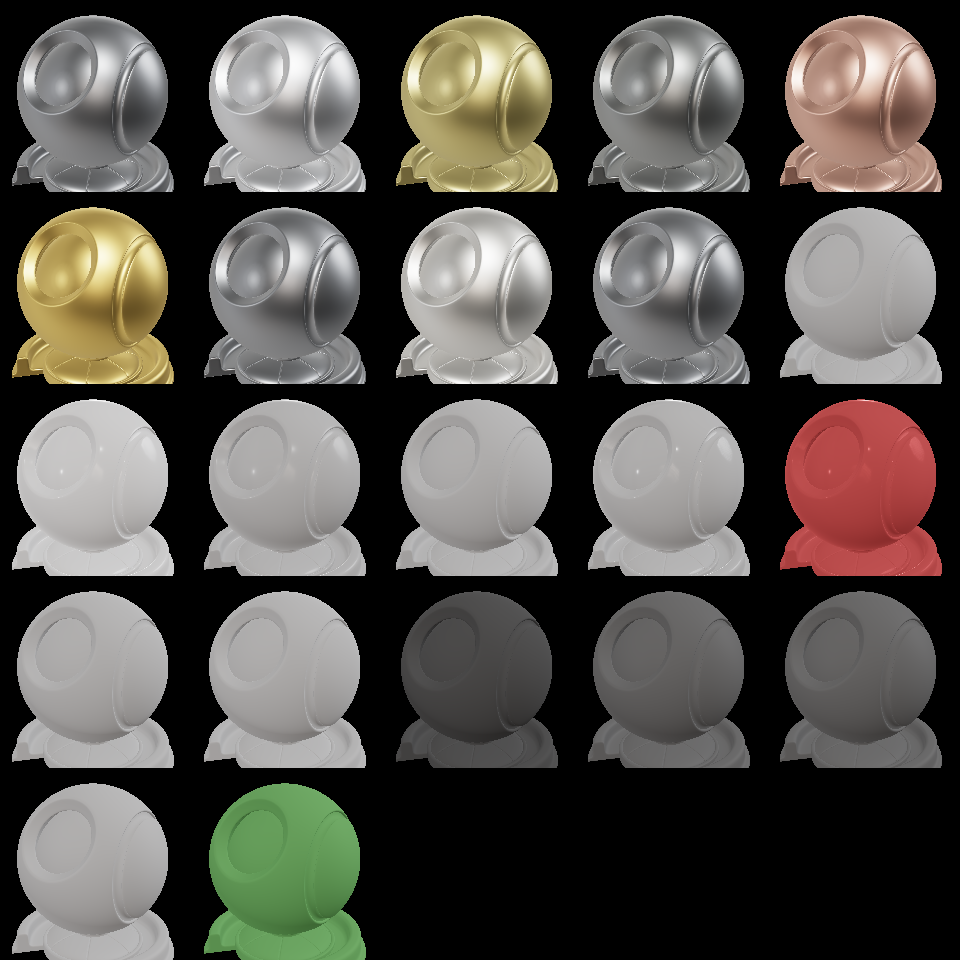
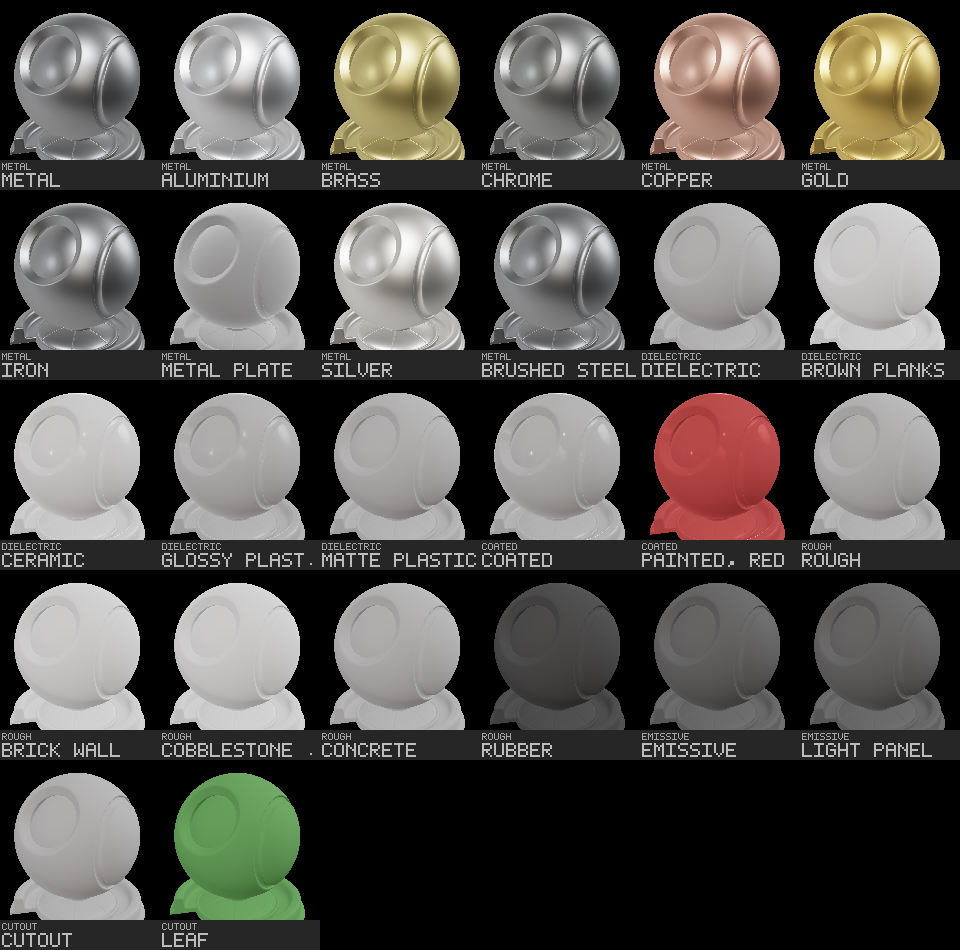
Contact sheet: a label strip under every cell (family small, title larger) from a 5x7 bitmap font of the repository's own; six columns at 160 px to keep the gallery's rule; the gallery caption; the quad-sphere idea boarded (Icebox) with its verdict

diff --git a/tools/wgpu/bitmap_font.py b/tools/wgpu/bitmap_font.py
@@ -1,0 +1,128 @@
+"""
+HogShade: a 5x7 bitmap font for labels on verification pictures, with no font rasteriser in the repository.
+Package: tools/wgpu/bitmap_font
+
+``draw_text(image, text, x, y)`` paints ``text`` into a float RGB image at an integer scale; letters are upper
+case (a lower-case letter maps to its capital), digits and a few marks (space, ``_ - . , ' / : ( )``) are drawn, any
+other character is a hollow box so a missing glyph is seen, never silently dropped. ``text_width`` says how
+many pixels a string takes, so a caller can truncate. Twenty-six letters, ten digits and the marks are enough
+for a family and a title under a contact-sheet cell (the owner, 2026-10-04: "they need context").
+"""
+
+from __future__ import annotations
+
+import logging as _logging
+
+import numpy as np
+from numpy.typing import NDArray
+
+_MODULE_NAME = "tools.wgpu.bitmap_font"
+__version__ = "0.1.0"
+__updated__ = "2026-10-04"
+_LOGGER = _logging.getLogger(_MODULE_NAME)
+
+GLYPH_W, GLYPH_H, ADVANCE = 5, 7, 6
+
+#: Each glyph is seven rows of five cells; ``#`` is ink.
+_GLYPHS: dict[str, tuple[str, ...]] = {
+    "A": (".###.", "#...#", "#...#", "#####", "#...#", "#...#", "#...#"),
+    "B": ("####.", "#...#", "#...#", "####.", "#...#", "#...#", "####."),
+    "C": (".###.", "#...#", "#....", "#....", "#....", "#...#", ".###."),
+    "D": ("####.", "#...#", "#...#", "#...#", "#...#", "#...#", "####."),
+    "E": ("#####", "#....", "#....", "####.", "#....", "#....", "#####"),
+    "F": ("#####", "#....", "#....", "####.", "#....", "#....", "#...."),
+    "G": (".###.", "#...#", "#....", "#.###", "#...#", "#...#", ".###."),
+    "H": ("#...#", "#...#", "#...#", "#####", "#...#", "#...#", "#...#"),
+    "I": ("#####", "..#..", "..#..", "..#..", "..#..", "..#..", "#####"),
+    "J": ("..###", "...#.", "...#.", "...#.", "...#.", "#..#.", ".##.."),
+    "K": ("#...#", "#..#.", "#.#..", "##...", "#.#..", "#..#.", "#...#"),
+    "L": ("#....", "#....", "#....", "#....", "#....", "#....", "#####"),
+    "M": ("#...#", "##.##", "#.#.#", "#.#.#", "#...#", "#...#", "#...#"),
+    "N": ("#...#", "##..#", "#.#.#", "#..##", "#...#", "#...#", "#...#"),
+    "O": (".###.", "#...#", "#...#", "#...#", "#...#", "#...#", ".###."),
+    "P": ("####.", "#...#", "#...#", "####.", "#....", "#....", "#...."),
+    "Q": (".###.", "#...#", "#...#", "#...#", "#.#.#", "#..#.", ".##.#"),
+    "R": ("####.", "#...#", "#...#", "####.", "#.#..", "#..#.", "#...#"),
+    "S": (".####", "#....", "#....", ".###.", "....#", "....#", "####."),
+    "T": ("#####", "..#..", "..#..", "..#..", "..#..", "..#..", "..#.."),
+    "U": ("#...#", "#...#", "#...#", "#...#", "#...#", "#...#", ".###."),
+    "V": ("#...#", "#...#", "#...#", "#...#", "#...#", ".#.#.", "..#.."),
+    "W": ("#...#", "#...#", "#...#", "#.#.#", "#.#.#", "##.##", "#...#"),
+    "X": ("#...#", "#...#", ".#.#.", "..#..", ".#.#.", "#...#", "#...#"),
+    "Y": ("#...#", "#...#", ".#.#.", "..#..", "..#..", "..#..", "..#.."),
+    "Z": ("#####", "....#", "...#.", "..#..", ".#...", "#....", "#####"),
+    "0": (".###.", "#...#", "#..##", "#.#.#", "##..#", "#...#", ".###."),
+    "1": ("..#..", ".##..", "..#..", "..#..", "..#..", "..#..", ".###."),
+    "2": (".###.", "#...#", "....#", "...#.", "..#..", ".#...", "#####"),
+    "3": ("####.", "....#", "....#", ".###.", "....#", "....#", "####."),
+    "4": ("...#.", "..##.", ".#.#.", "#..#.", "#####", "...#.", "...#."),
+    "5": ("#####", "#....", "####.", "....#", "....#", "#...#", ".###."),
+    "6": (".###.", "#....", "#....", "####.", "#...#", "#...#", ".###."),
+    "7": ("#####", "....#", "...#.", "..#..", ".#...", ".#...", ".#..."),
+    "8": (".###.", "#...#", "#...#", ".###.", "#...#", "#...#", ".###."),
+    "9": (".###.", "#...#", "#...#", ".####", "....#", "....#", ".###."),
+    " ": (".....", ".....", ".....", ".....", ".....", ".....", "....."),
+    "_": (".....", ".....", ".....", ".....", ".....", ".....", "#####"),
+    "-": (".....", ".....", ".....", "#####", ".....", ".....", "....."),
+    ".": (".....", ".....", ".....", ".....", ".....", "..#..", "....."),
+    "/": ("....#", "....#", "...#.", "..#..", ".#...", "#....", "#...."),
+    ":": (".....", "..#..", ".....", ".....", ".....", "..#..", "....."),
+    ",": (".....", ".....", ".....", ".....", "..##.", "..##.", ".#..."),
+    "'": ("..#..", "..#..", ".#...", ".....", ".....", ".....", "....."),
+    "(": ("...#.", "..#..", ".#...", ".#...", ".#...", "..#..", "...#."),
+    ")": (".#...", "..#..", "...#.", "...#.", "...#.", "..#..", ".#..."),
+}
+_BOX = ("#####", "#...#", "#...#", "#...#", "#...#", "#...#", "#####")
+
+
+def glyph(ch: str) -> NDArray[np.bool_]:
+    """The ``(7, 5)`` ink mask of one character; a capital for a lower-case letter, a box for the unknown."""
+    rows = _GLYPHS.get(ch.upper() if ch.isalpha() else ch, _BOX)
+    return np.array([[c == "#" for c in row] for row in rows], dtype=bool)
+
+
+def text_width(text: str, scale: int = 1) -> int:
+    """The pixels a string takes at ``scale`` (five cells and a one-cell gap per character, no trailing gap)."""
+    if not text:
+        return 0
+    return (len(text) * ADVANCE - 1) * scale
+
+
+def fit(text: str, width: int, scale: int = 1) -> str:
+    """``text`` cut to what fits in ``width`` pixels, the cut marked with a trailing dot when it happened."""
+    if text_width(text, scale) <= width:
+        return text
+    per = ADVANCE * scale
+    n = max(width // per - 1, 0)
+    return text[:n] + "." if n else ""
+
+
+def draw_text(
+    image: NDArray[np.float32],
+    text: str,
+    x: int,
+    y: int,
+    scale: int = 2,
+    colour: tuple[float, float, float] = (1.0, 1.0, 1.0),
+) -> None:
+    """Paint ``text`` with its top-left at ``(x, y)`` into a float ``(H, W, 3)`` image, in place, clipped to it."""
+    h, w = image.shape[:2]
+    ink = np.asarray(colour, dtype=np.float32)
+    for i, ch in enumerate(text):
+        mask = np.repeat(np.repeat(glyph(ch), scale, axis=0), scale, axis=1)
+        gx = x + i * ADVANCE * scale
+        gy = y
+        x0, y0 = max(gx, 0), max(gy, 0)
+        x1, y1 = min(gx + mask.shape[1], w), min(gy + mask.shape[0], h)
+        if x0 >= x1 or y0 >= y1:
+            continue
+        sub = mask[y0 - gy : y1 - gy, x0 - gx : x1 - gx]
+        region = image[y0:y1, x0:x1]
+        region[sub] = ink
+
+
+if __name__ == "__main__":
+    _canvas = np.zeros((20, 200, 3), dtype=np.float32)
+    draw_text(_canvas, "metal / Gold 0.9", 2, 3)
+    for _row in _canvas[..., 0] > 0.5:
+        print("".join("#" if v else "." for v in _row))

diff --git a/tools/wgpu/contact_sheet.py b/tools/wgpu/contact_sheet.py
@@ -8,9 +8,10 @@ Package: tools/wgpu/contact_sheet
 
 Each document is resolved, converted to hogshade-legacy-v2 (the table lists what that loses, once), bound for
 wgpu and rendered on the forward path under the calibration environment; the tiles are laid out in roster
-order (families in the index's order, a family's parent first), five to a row. No text is drawn (no font
-rasteriser in the repo): the JSON beside the picture is the legend, one entry per cell with its title and
-document. The picture stays within the gallery's rule (at most 1024 on a side).
+order (families in the index's order, a family's parent first), six to a row, each with a label strip under it
+naming the family and the document's title (``tools/wgpu/bitmap_font.py``; the owner, 2026-10-04: "they need
+context"). The JSON beside the picture is the legend, one entry per cell with its title and document. The
+picture stays within the gallery's rule (at most 1024 on a side).
 """
 
 from __future__ import annotations
@@ -29,6 +30,8 @@ import numpy as np
 ROOT = Path(__file__).resolve().parents[2]
 sys.path.insert(0, str(ROOT))
 
+from bitmap_font import draw_text, fit
+
 from hogshade.ibl.imageio import preview_srgb8, write_png_rgb8
 from hogshade.material import MaterialError, bind, convert, documents_under, load, load_table, resolve
 from hogshade.material.library import family_of
@@ -41,17 +44,30 @@ _LOGGER = _logging.getLogger(_MODULE_NAME)
 
 LIBRARY = ROOT / "content" / "materials" / "standard"
 OUT_DIR = ROOT / "verification" / "wgpu" / "library"
-COLUMNS = 5
+COLUMNS = 6
 MAX_SIDE = 1024
 TO_TYPE = "hogshade-legacy-v2"
+#: The label strip under each tile: the family on a small line, the title on a larger one, three pixels of air
+#: around each (7-row glyphs: 7 at scale 1, 14 at scale 2).
+FAMILY_SCALE, TITLE_SCALE = 1, 2
+LABEL_H = 3 + 7 * FAMILY_SCALE + 3 + 7 * TITLE_SCALE + 3
+LABEL_GREY = 0.02  # the strip's ground, linear; near black so the text reads on any tile
 
 
-def sheet_layout(count: int, tile: int, columns: int = COLUMNS) -> tuple[int, int]:
-    """(width, height) in pixels of a grid of ``count`` tiles, ``columns`` to a row; ``count`` is at least 1."""
+def sheet_layout(count: int, tile: int, columns: int = COLUMNS, label: int = LABEL_H) -> tuple[int, int]:
+    """
+    (width, height) in pixels of a grid of ``count`` tiles, ``columns`` to a row, each tile with a ``label``
+    strip under it; ``count`` is at least 1.
+    """
     if count < 1:
         raise ValueError("a sheet needs at least one tile")
     rows = -(-count // columns)
-    return columns * tile, rows * tile
+    return columns * tile, rows * (tile + label)
+
+
+def label_for(family: str, title: str | None, width: int) -> tuple[str, str]:
+    """The strip's two lines, each cut to the tile's width with a trailing dot when it does not fit."""
+    return fit(family, width - 4, FAMILY_SCALE), fit(title or "?", width - 4, TITLE_SCALE)
 
 
 def command_line(args: argparse.Namespace, defaults: argparse.Namespace) -> str:
@@ -92,7 +108,7 @@ def main(argv: list[str] | None = None) -> int:
     ap.add_argument("--library", type=Path, default=LIBRARY, help="the standard documents' root")
     ap.add_argument("--out-dir", type=Path, default=OUT_DIR)
     ap.add_argument("--environment", default="studio_small_09")
-    ap.add_argument("--tile", type=int, default=192, help="square tile size, a multiple of 32")
+    ap.add_argument("--tile", type=int, default=160, help="square tile size, a multiple of 32")
     ap.add_argument("--exposure-ev", type=float, default=0.0, help="display exposure for the PNG only")
     args = ap.parse_args(argv)
     defaults = ap.parse_args([])
@@ -145,14 +161,20 @@ def main(argv: list[str] | None = None) -> int:
             _LOGGER.error("%s rendered a non-finite pixel", path)
             return 1
         row, col = divmod(cell, COLUMNS)
-        sheet[row * args.tile : (row + 1) * args.tile, col * args.tile : (col + 1) * args.tile] = frame
+        y0, x0 = row * (args.tile + LABEL_H), col * args.tile
+        sheet[y0 : y0 + args.tile, x0 : x0 + args.tile] = frame
+        sheet[y0 + args.tile : y0 + args.tile + LABEL_H, x0 : x0 + args.tile] = LABEL_GREY
         rel = path.relative_to(args.library).as_posix()
+        family = family_of(path, args.library)
+        line1, line2 = label_for(family, doc.title, args.tile)
+        draw_text(sheet, line1, x0 + 2, y0 + args.tile + 3, FAMILY_SCALE, (0.6, 0.6, 0.6))
+        draw_text(sheet, line2, x0 + 2, y0 + args.tile + 3 + 7 * FAMILY_SCALE + 3, TITLE_SCALE)
         legend.append(
             {
                 "cell": cell,
                 "row": row,
                 "column": col,
-                "family": family_of(path, args.library),
+                "family": family,
                 "document": rel,
                 "title": doc.title,
             }

diff --git a/tests/material/test_material_library.py b/tests/material/test_material_library.py
@@ -310,7 +310,15 @@ def test_the_tool_check_covers_the_index():
 def test_the_sheet_layout_and_the_command_record():
     import contact_sheet as sheet
 
-    assert sheet.sheet_layout(22, 192) == (960, 960) and sheet.sheet_layout(1, 32) == (160, 32)
+    assert sheet.sheet_layout(22, 192) == (1152, 4 * (192 + sheet.LABEL_H))
+    assert sheet.sheet_layout(1, 32) == (192, 32 + sheet.LABEL_H)
+    assert (
+        sheet.sheet_layout(26, 160) <= (960, 5 * (160 + sheet.LABEL_H)) and 5 * (160 + sheet.LABEL_H) <= sheet.MAX_SIDE
+    )
+    assert sheet.label_for("metal", "Gold", 160) == ("metal", "Gold")
+    assert sheet.label_for("dielectric", "Glossy plastic, the long one", 64)[1].endswith(".")
+    assert sheet.label_for("metal", "Metal plate", 160)[1] == "Metal plate", "thirteen characters fit at scale 2"
+    assert sheet.label_for("rough", "Cobblestone floor", 160)[1] == "Cobblestone .", "a longer title is cut with a dot"
     with pytest.raises(ValueError):
         sheet.sheet_layout(0, 192)
     import argparse
@@ -348,3 +356,22 @@ def test_the_sheet_prepares_every_document_before_the_device(tmp_path: Path):
     )
     with pytest.raises(MaterialError, match="cannot convert an invalid material"):
         sheet.prepare(tmp_path)
+
+
+def test_the_bitmap_font_draws_every_label_character_and_boxes_the_unknown():
+    import bitmap_font as font
+    import numpy as np
+
+    for ch in "ABCDEFGHIJKLMNOPQRSTUVWXYZ0123456789 _-.,'/:()":
+        g = font.glyph(ch)
+        assert g.shape == (7, 5) and (g.any() or ch == " ")
+    assert font.glyph("a").tolist() == font.glyph("A").tolist(), "lower case draws its capital"
+    assert font.glyph("%").tolist() == font.glyph("\u00e9").tolist(), "the unknown is one box, never dropped"
+    assert font.text_width("abc", 1) == 17 and font.text_width("", 3) == 0
+    assert font.fit("metal / aluminium", 40, 1) == "metal."  # five characters fit in 40 px, the sixth is the dot
+    canvas = np.zeros((20, 60, 3), dtype=np.float32)
+    font.draw_text(canvas, "AB", 1, 1, scale=1, colour=(1.0, 0.5, 0.0))
+    assert canvas[..., 0].sum() > 0 and canvas[1, 2, 0] == 1.0 and canvas[1, 2, 1] == 0.5, (
+        "ink lands where the glyph is"
+    )
+    font.draw_text(canvas, "ZZZZZZZZZZZZZZZZ", 50, 15, scale=2)  # clipped at the edge, no error

diff --git a/Docs/plan/BOARD.md b/Docs/plan/BOARD.md
@@ -42,7 +42,7 @@ A gate is not a task. It is a question that blocks tasks, and the cost of guessi
 
 | Item | Cost | Notes |
 | --- | --- | --- |
-| **Labels under every contact-sheet cell** (owner, 2026-10-04: "the base library renders are cute, but they need context; even a basic simple label under each for what each material is") | ¼ d, in build on `feat/contact-sheet-labels` | Verdict: yes, and done in its own small PR: a strip under each cell with the family and the document's title, drawn by a bitmap font of the tool's own (no Pillow, the picture rule's budget kept); the sheet's JSON already names each cell, the picture now does too. The same strip serves the texture-set matrix when the gallery grows it |
+| ~~**Labels under every contact-sheet cell**~~ (owner, 2026-10-04) | — | ✅ **Built as [#60](https://github.com/HogJonny-AMZN/HogShade/pull/60)**: a strip under each cell with the family and the document's title from `tools/wgpu/bitmap_font.py` (46 glyphs, no new dependency), six columns at 160 px inside the gallery's rule; a long title is cut with a dot, the JSON legend keeps it whole |
 | ~~**T3 · the first texture set**~~ | — | ✅ **Merged 2026-10-04 as [#57](https://github.com/HogJonny-AMZN/HogShade/pull/57) (spec and plan) and [#58](https://github.com/HogJonny-AMZN/HogShade/pull/58) (the build)**: four Poly Haven sets (`cobblestone_floor_04`, `brick_wall_001`, `brown_planks_03`, `metal_plate`) beside the standard documents that bind them and the owner's grid tile under `content/textures/grid/`, fetched by `tools/fetch_polyhaven.py`, cooked `--compress` and committed in LFS; `hogshade.material.runtime` and `content-runtime`; the Maya binder; the shell reading the runtime set through a generated `ormMap` (a channel read only where the parameter's own flag is on); the Maya texture check job and five renders in the gallery; the S2 gate held. Two local review rounds (6 to 8) and Copilot's six fixed; the resident worker's lessons are failure modes 16 and the Windows runner's line endings 17. Open: wgpu samples no texture (T3b, its own spec), legacy v1 with a BC5 normal, cavity unbound, the detail maps unblended. Next: T3b (wgpu samples the runtime set, a Next row), then T4 the showcase set with the owner, the f-string pass |
 | ~~**T2 · the texture cook**~~ | — | ✅ **Merged 2026-10-04 as [#53](https://github.com/HogJonny-AMZN/HogShade/pull/53) (spec and plan), [#54](https://github.com/HogJonny-AMZN/HogShade/pull/54) (the spec's setup section) and [#55](https://github.com/HogJonny-AMZN/HogShade/pull/55) (the build)**: `hogshade.texture_cook` (a PNG reader of this repository's, mips in linear at DDS sizes, normals to `opengl+y`, `_ORM` and alpha carriers through the `pack` sidecar field, height at the source's precision, `ispc_texcomp` behind the encoder seam, the owner's frequency separation with its error measured, manifest and provenance), `tools/cook_textures.py`, the BATS job, the setup in every getting-started place, the proof pictures in the gallery. Three local review rounds (two hard findings in the first, one in the second, a pass at 7+) and Copilot's twenty-two across the three PRs (ten, two, ten) fixed; decisions recorded: compression automatic when an encoder is present, the shape rules before any write, records written after every DDS as LF bytes, the `separation` block keyed by suffix. Open: TIFF (recommended no), `texconv` unwired, no host samples a texture yet. Next: T3 the first set (S4b) with its host half, T4 the showcase set with the owner |
 | ~~**Maya 2026.3 under the GUI worker shows a partial menu bar**~~ (owner, 2026-10-04) | — | ✅ **Resolved by the owner the same day**: Maya 2026.3 was crashing at start; deleting the prefs and a USD patch fixed it (Job_Orchestrator issue [72](https://github.com/HogJonny-AMZN/Job_Orchestrator/issues/72) holds the facts; the owner closes it with the patch named). The texture check logs the menu bar on every run: 63 entries since |
@@ -114,6 +114,7 @@ forgotten. **An empty Icebox means ideas are going missing.**
 | **The legacy `grid_*` test tile set as the calibration tile** (owner, 2026-10-03: "some of the first texture data could come from testFiles") | ½ d in T3, on the standard's names | Verdict: good: the owner's own 2015 to 2017 set already carries colour, normal, height, roughness, metalness, AO, emissive, curvature, convexity, transmission and packed masks, which is the roadmap's "normal-map test tile" and more; provenance "author". The `IBLbaker` DDS files beside it are MIT and superseded by the E1 cook, so they stay out. Question 6 |
 | **A texture sidecar with presets, O3DE's `.assetinfo` idea** (owner, 2026-10-03) | in T1 and T2 | Verdict: awesome, and the piece that makes the check possible: a preset chosen from the suffix, overridable with a reason, agreeing with the document's declared colour space. `<name>.texture.json`, JSON like everything else the library reads. Question 4 |
 | **The gallery as side-by-side and matrix layouts for comparisons** (owner, 2026-10-04: "the gallery would be better as side-by-side and/or even a matrix layout for similar comparisons") | ½ d in `tools/generate_gallery.py` and the manifest | Verdict: yes, and overdue now that there are things to compare: the five texture renders against their debug views (sets as rows, main/albedo/normal/roughness/metalness/AO as columns), the gate pairs, and later the hosts against each other. The page is generated Markdown, so a `grids` entry kind (rows, columns, a cell per picture, the same picture rules) renders as a table of `<img width=>` thumbnails that GitHub shows side by side; `pairs` becomes a two-column grid. The manifest's check holds every cell to the picture rules as it does the lists today |
+| **A quad sphere instead of the polar sphere for texture renders and comparisons** (owner, 2026-10-04: "in the future a quad sphere is going to be better than a polar sphere for texturing renders and comparison") | ½ d: a cube-sphere generator in `hogshade` (numpy; an OBJ for wgpu, the same mesh imported by the Maya check), a `--mesh` option on the texture check and the contact sheet | Verdict: yes; today's five renders all pinch at the poles and stretch the UVs there, which a cube-sphere's six equal squares do not; its six seams are honest and fixed, and the same mesh on both hosts is a step toward the comparison framework (G4). The shader ball stays the look-dev mesh; the quad sphere is the texture and comparison mesh |
 | **Neural texture compression, as research** (owner, 2026-10-04: "in the future I'd like to explore newer fringe research like neural compression, since SpriteJammer is an AI research prototype game") | a design first, 1 d; a spike after the BC encoder lands, 2 to 3 d; the host decoder is the real cost | Verdict: awesome as research and honest about its shape: a neural encoder is a third `Encoder` behind T2's seam, but the decoder is a shader-side inference pass (NVIDIA's RTX Neural Texture Compression SDK and the 2023 paper, Random-Access Neural Compression of Material Textures, decode per texel with a small network over cooperative vectors), which neither the wgpu host nor the Maya dx11 shell can run today. So: after the BC encoder spike and after a host has texture sampling at all (T3's host half); the design names the licence (the NTC SDK's to be checked), the quality bar against BC7 at matched size, and which host decodes first (wgpu, with the reference twin in numpy). SpriteJammer's board carries the consuming row when this one lands |
 | **Alpha as a carrier for other texture conditioning strategies** (owner, 2026-10-04: "some other texture conditioning strategies might want to pack data into an alpha channel as well") | each strategy ½ d behind the `pack` field | Verdict: awesome, and the mechanism is in the T2 spec now: a carrier's sidecar `pack.a` names the single-channel map that rides in its alpha, the manifest records it, BC7 takes an alpha profile. The field's value is reserved to grow from a suffix to an operation (`{"from": "_H", "op": "invert"}`) when a strategy needs one; none is built in T2. Candidates when they come: a height in `_ORM`'s alpha for parallax, a cutout mask in `_BC`'s, a packed detail mask, a wetness or dirt mask for the showcase set |
 | **Other BC encoders, for research and evaluation later** (owner, 2026-10-04: "log the other options for research and evaluation later") | ½ d each behind T2's encoder seam | Verdict: logged, not scheduled. libktx through `pyktx` (Apache-2.0, PyPI; Basis Universal supercompression and transcoding, the KTX2 container, useful when a web or mobile target wants one asset for every GPU), bc7enc_rdo (MIT; rate-distortion optimised BC7, smaller on disk after zstd), AMD Compressonator (MIT; GPU encoders, every BC format), DirectXTex `texconv` (MIT; the reference CLI and the quality baseline), a numba BC4/BC5 of our own (no dependency at all for the single-channel formats). Each is one `Encoder` behind the seam when a reason appears |

diff --git a/Docs/gallery.md b/Docs/gallery.md
@@ -65,7 +65,7 @@ Every standard document of the base library (S4a) renders through the reverse co
 
 ![the base library, 22 documents, forward path](../verification/wgpu/library/contact-sheet.png)
 
-content/materials/standard/ in roster order, five to a row: metal (base, aluminium, brass, chrome, copper, gold, iron, silver, steel), dielectric (base, ceramic, glossy plastic, matte plastic), coated (base, painted red), rough (base, concrete, rubber), emissive (base, panel), cutout (base, leaf); contact-sheet.json is the legend. The emissive pair do not glow: the wgpu host carries no emission term, so they render as their dark base colour; anisotropy, specular colour and specular occlusion are the table's losses, so brushed steel is iron here. Made by `uv run tools/wgpu/contact_sheet.py`; the file is `verification/wgpu/library/contact-sheet.png`.
+content/materials/standard/ in roster order, six to a row, each cell labelled with its family and title (a long title is cut with a dot; contact-sheet.json has it whole): metal (base, aluminium, brass, chrome, copper, gold, iron, silver, steel), dielectric (base, ceramic, glossy plastic, matte plastic), coated (base, painted red), rough (base, concrete, rubber), emissive (base, panel), cutout (base, leaf); contact-sheet.json is the legend. The emissive pair do not glow: the wgpu host carries no emission term, so they render as their dark base colour; anisotropy, specular colour and specular occlusion are the table's losses, so brushed steel is iron here. Made by `uv run tools/wgpu/contact_sheet.py`; the file is `verification/wgpu/library/contact-sheet.png`.
 
 ## The sphere in Maya 2026
 
